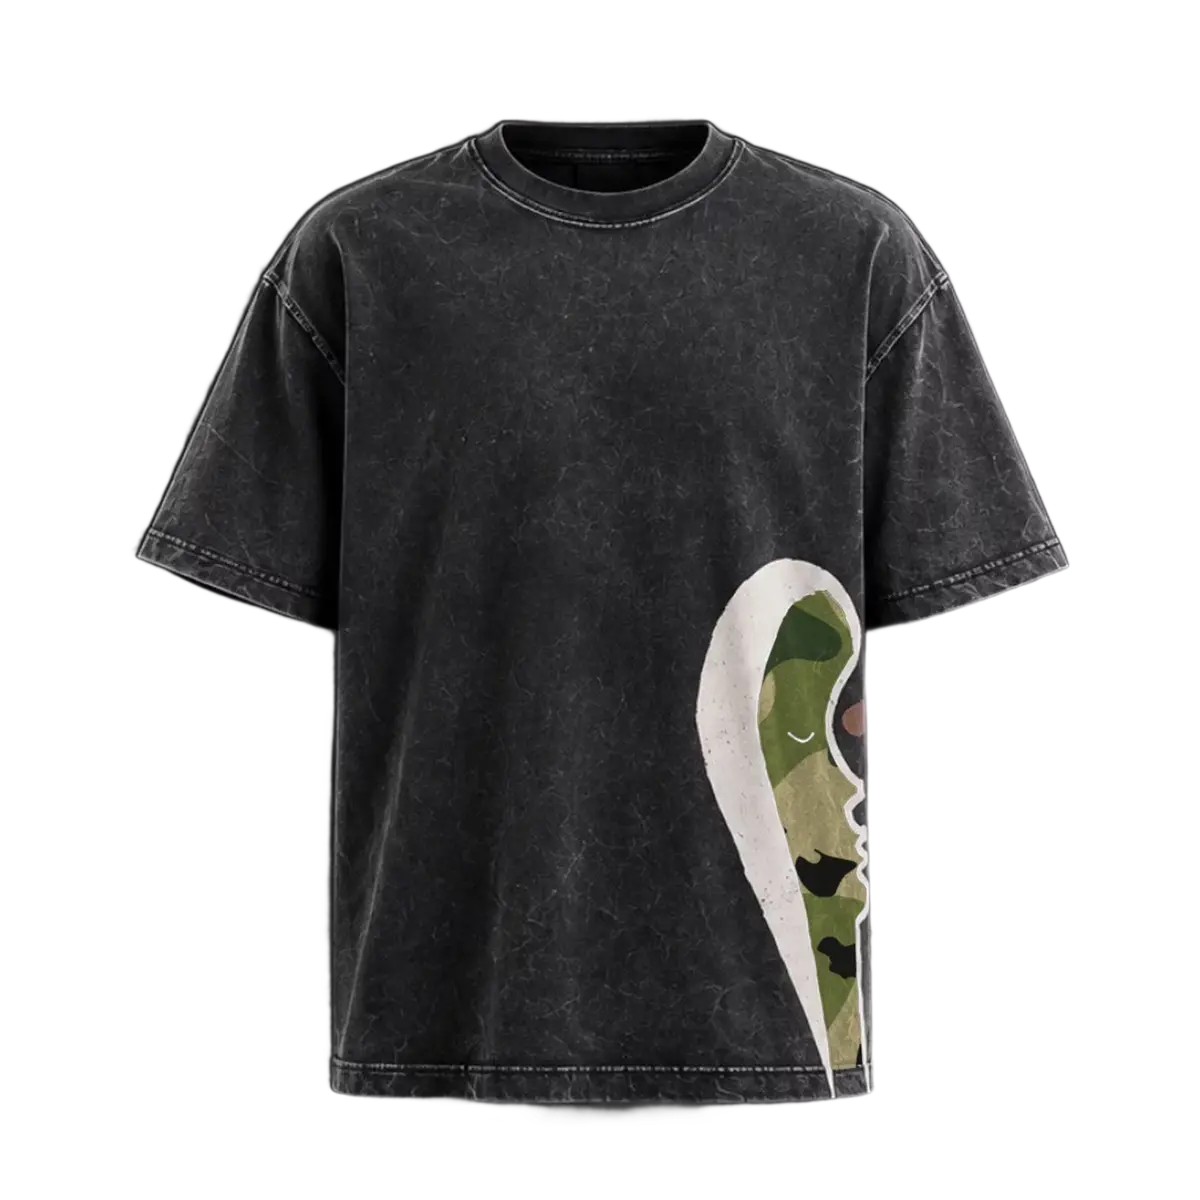
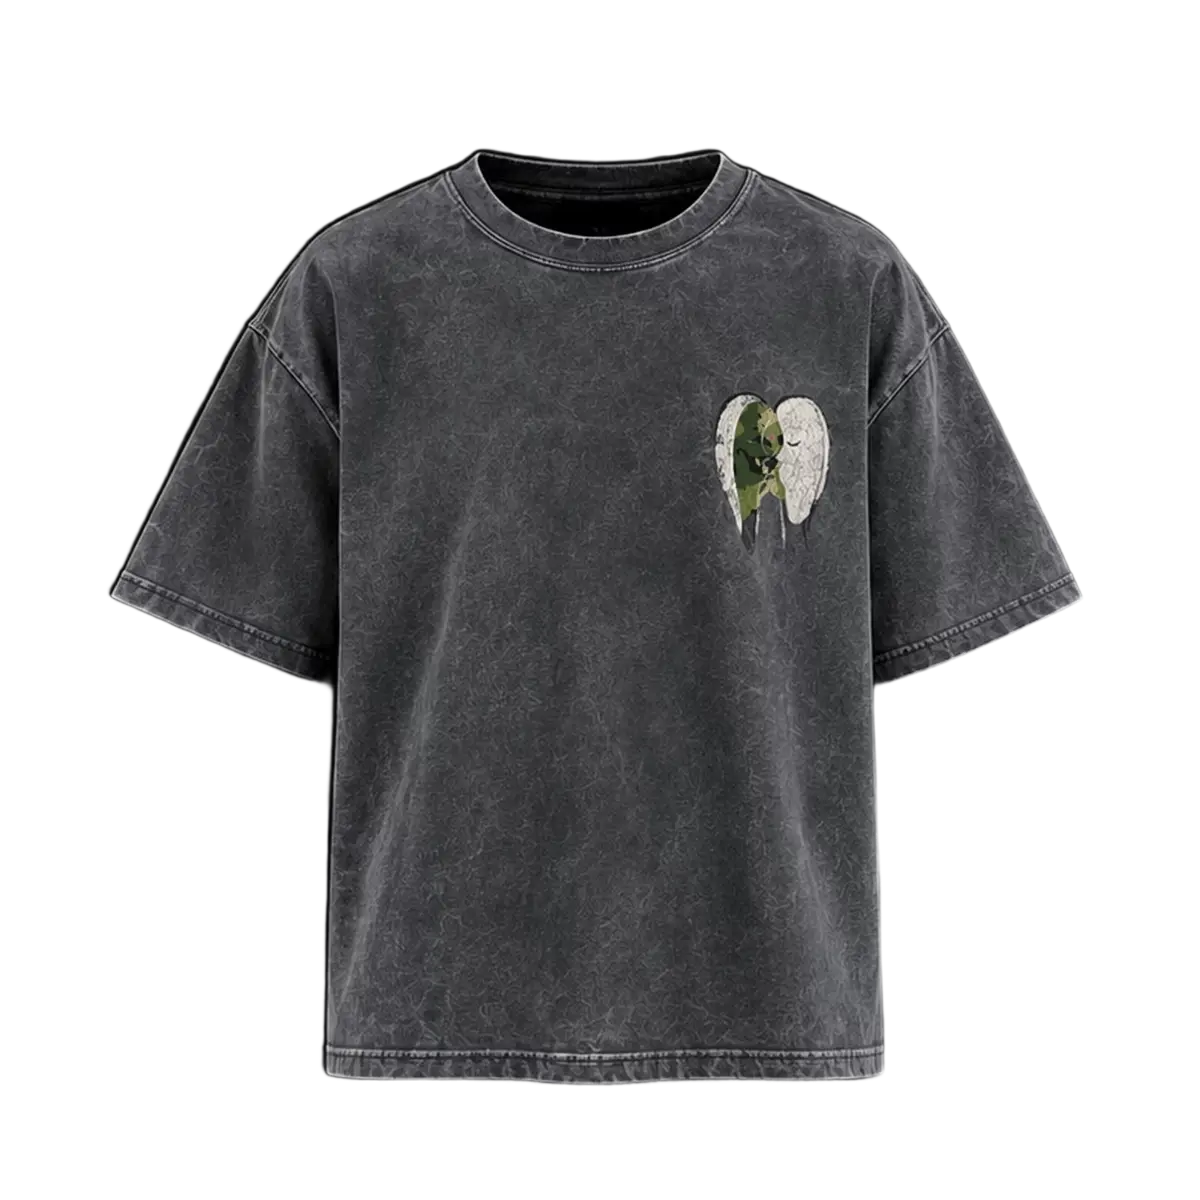
Switch the site to the first drop: camo tee and long sleeve
OBJECT #001 is the camo-print tee (699 kr), OBJECT #002 the new long
sleeve (999 kr). Cross, collection and product pages show the back print
first and the garment type. Cut-outs for the long sleeve added; old
colourways' cut-outs and swatches removed (products kept as drafts).

Claude-Session: https://claude.ai/code/session_01XhEeNPbG4KL5nKWSRKhVqG

Changed region(s): [[0.0925, 0.0925, 0.8942, 0.9558]]

diff --git a/docs/brief.md b/docs/brief.md
@@ -157,6 +157,7 @@ Produktstatus 2026-10-04 (efter fas 2, ändrat med användarens godkännande): s
 - **Två plagg:** en **t-shirt** och en **långärmad t-shirt**, i samma tyg och samma färg.
 - **Tryck på båda: kyssmotivet**, litet på bröstet och stort på ryggen (filerna `3_svart-camo_brost` och `3_svart-camo_rygg`).
 - Sidtrycket (#001) och färgerna svart och blå ingår inte i första droppet.
-- **Öppet:** numrering (t.ex. t-shirt #001 och långärmad #002, eller annat), pris på den långärmade, måttguide för båda.
-- Shopify har fortfarande de sex produkterna från fas 2. De ska ändras till det nya upplägget, men fråga användaren innan något ändras. Korsets lodräta axel kan då visa plaggen (T-shirt / Långärmad) i stället för färger, i en senare fas.
+- **Beslut (2026-10-06):** **OBJECT #001 = t-shirten, 699 kr. OBJECT #002 = långärmad t-shirt, 999 kr.** Storlek S–XL. Öppet: måttguide för båda.
+- **Shopify (ändrat med användarens godkännande 2026-10-06):** `object-001-svart-camo` = t-shirten (typ T-shirt, i kollektionen OBJECT #001), `object-002-svart-camo` = den långärmade (typ Långärmad t-shirt, ny produkt, i kollektionen OBJECT #002, bilder från `brand/products/langarmad/`). De fem gamla produkterna är **utkast** och omdöpta efter motiv: Sidtryck – Svart / Blå / Svart-camo, Kyss – Svart / Blå (handles `sidtryck-*`, `kyss-*`).
+- **Sajten:** korsets flikar är de två objekten, färgaxeln visar svart-camo (nya färger fylls på där när de droppar). Ryggtrycket visas först överallt. Plaggtypen syns i korset, på produktsidan och på kollektionskorten.
 - Tillverkarunderlag: `docs/leverantor-underlag.md`.

diff --git a/docs/theme.md b/docs/theme.md
@@ -18,6 +18,7 @@ Allt fungerar utan JavaScript (formulär och länkar), skriptet gör det snabbar
 ## Hur produktdatan läses
 - **Korset** har ett block per kollektion. Varje produkt i kollektionen är en färg. Färgen läses från webbadressen efter numret: `object-001-svart-camo` → `svart-camo`. Därför ligger samma färg på samma rad i båda kollektionerna. Ordningen och startfärgen ställs in i temaredigeraren.
 - Pris, storlekar och lager kommer direkt från Shopify. Slutsålda storlekar är överstrukna och går inte att välja.
+- **Plaggtyp** (Shopifys produkttyp, t.ex. "T-shirt", "Långärmad t-shirt") visas i korsets datarad, under namnet på produktsidan och på kollektionskorten.
 - **Frilagda plagg** ligger i temat: `assets/cutout-<produktens webbadress>-<fram|bak>.webp` (1200 px), tygrutor i `assets/swatch-<webbadress>.webp`. Saknas en fil visas produktens första bild från Shopify i stället. En ny produkt behöver alltså två frilagda bilder och en tygruta med samma namnmönster.
 - Typsnittet Archivo (variabelt, OFL) ligger i temat: `assets/archivo-variable.woff2`.
 

diff --git a/PRODUCT.md b/PRODUCT.md
@@ -25,7 +25,7 @@ Konsten i trycken. Motiven är handritade linjeansikten: två ansikten som kysse
 - Kassan styrs av Shopify.
 
 ## Capabilities and Constraints
-- Två produkter i första droppet: **OBJECT #001** (sidtrycket) och **OBJECT #002** (kyssmotivet, bröst + rygg), var och en i svart, blå och svart-camo. Oversized, tunga t-shirts i acid wash. Storlekar S–XL. 799 kr.
+- Första droppet (beslut 2026-10-06): en färgställning, svart-camo (svart acid wash med kyssmotivet i camo, bröst + rygg). **OBJECT #001 = t-shirt, 699 kr. OBJECT #002 = långärmad t-shirt, 999 kr.** Storlekar S–XL. Fler färger och sidtrycket kommer i senare drops.
 - Shopify har idag fem produkter (dubbletter) som ska slås ihop till två med färg- och storleksval. Fråga innan något raderas.
 - Öppet: produktinfo (material, gsm, passform, tvätt, mått), märkets historia, frakt/retur, kontakt, sociala kanaler, sidlista, domän, storlek på upplagorna.
 
